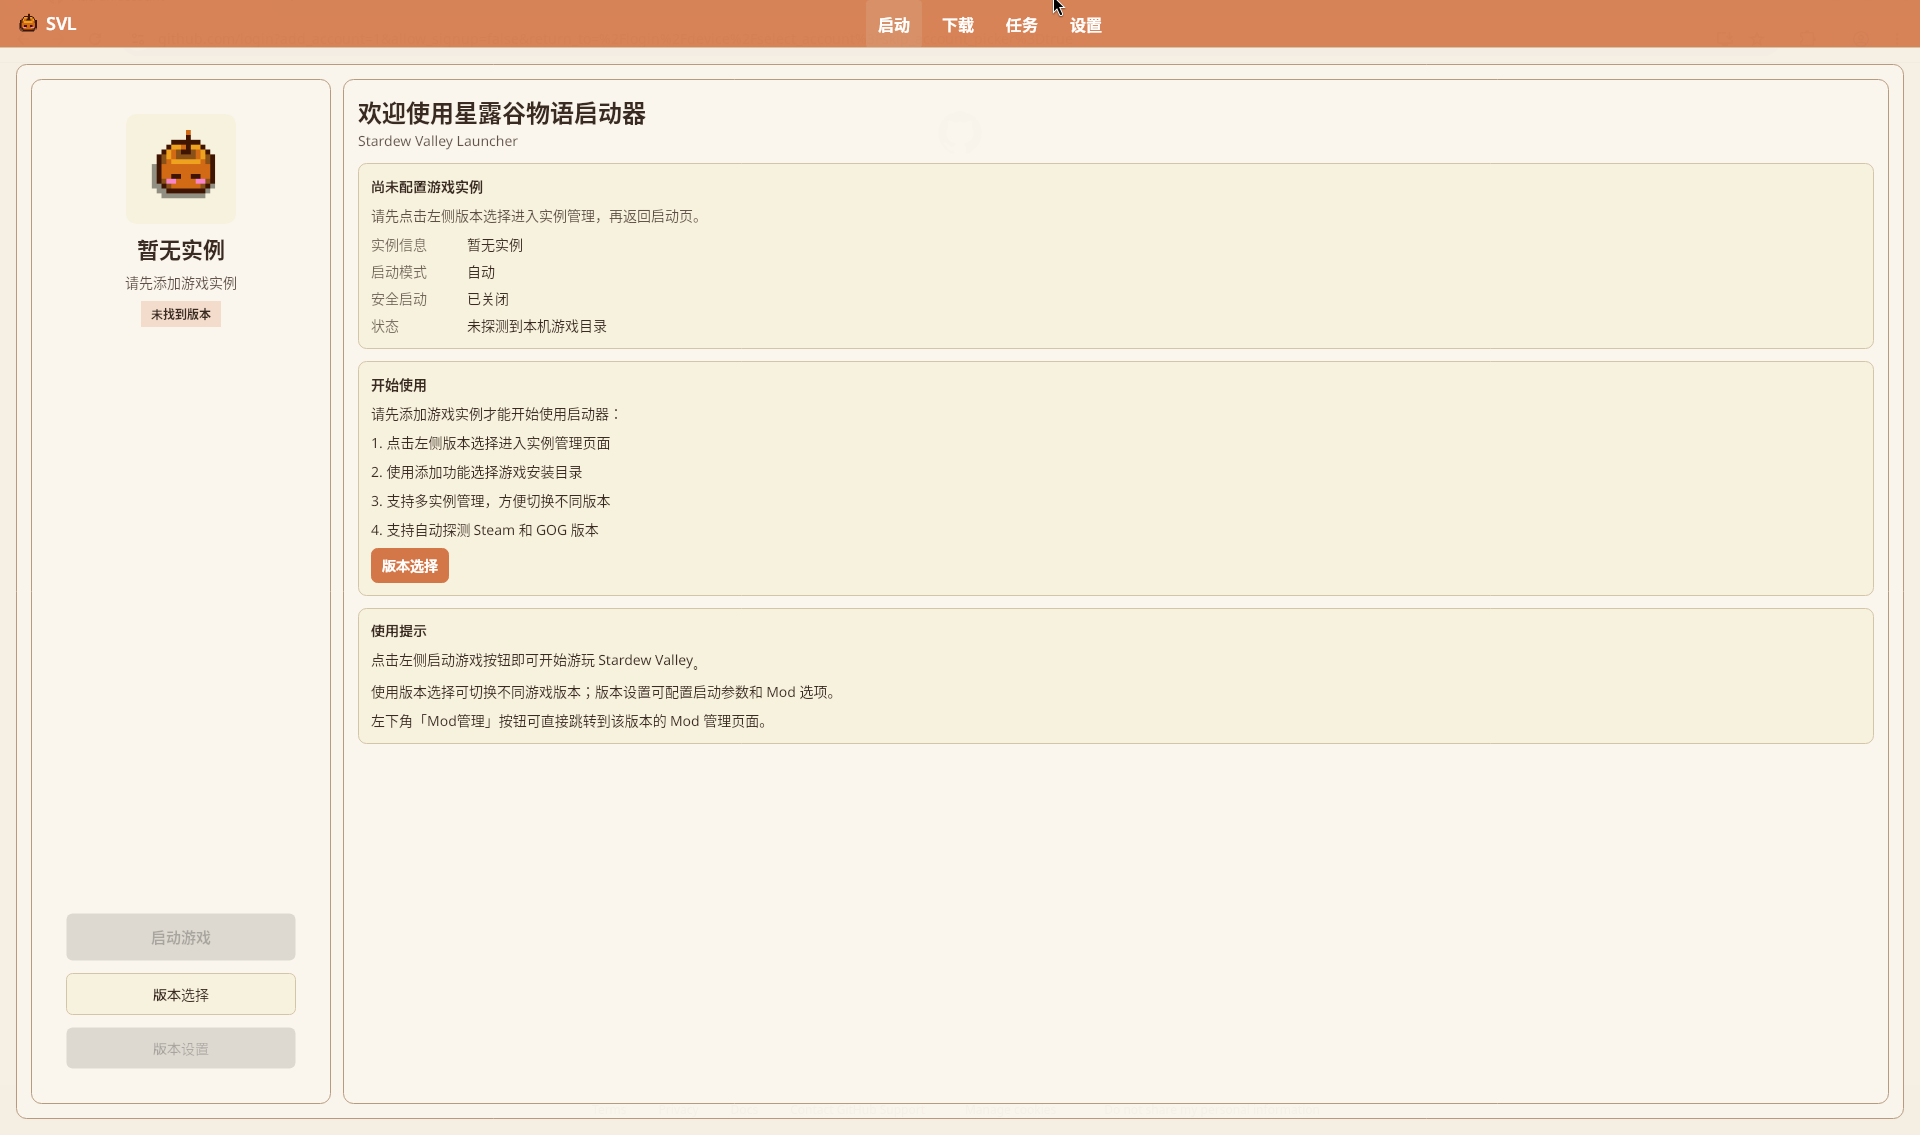
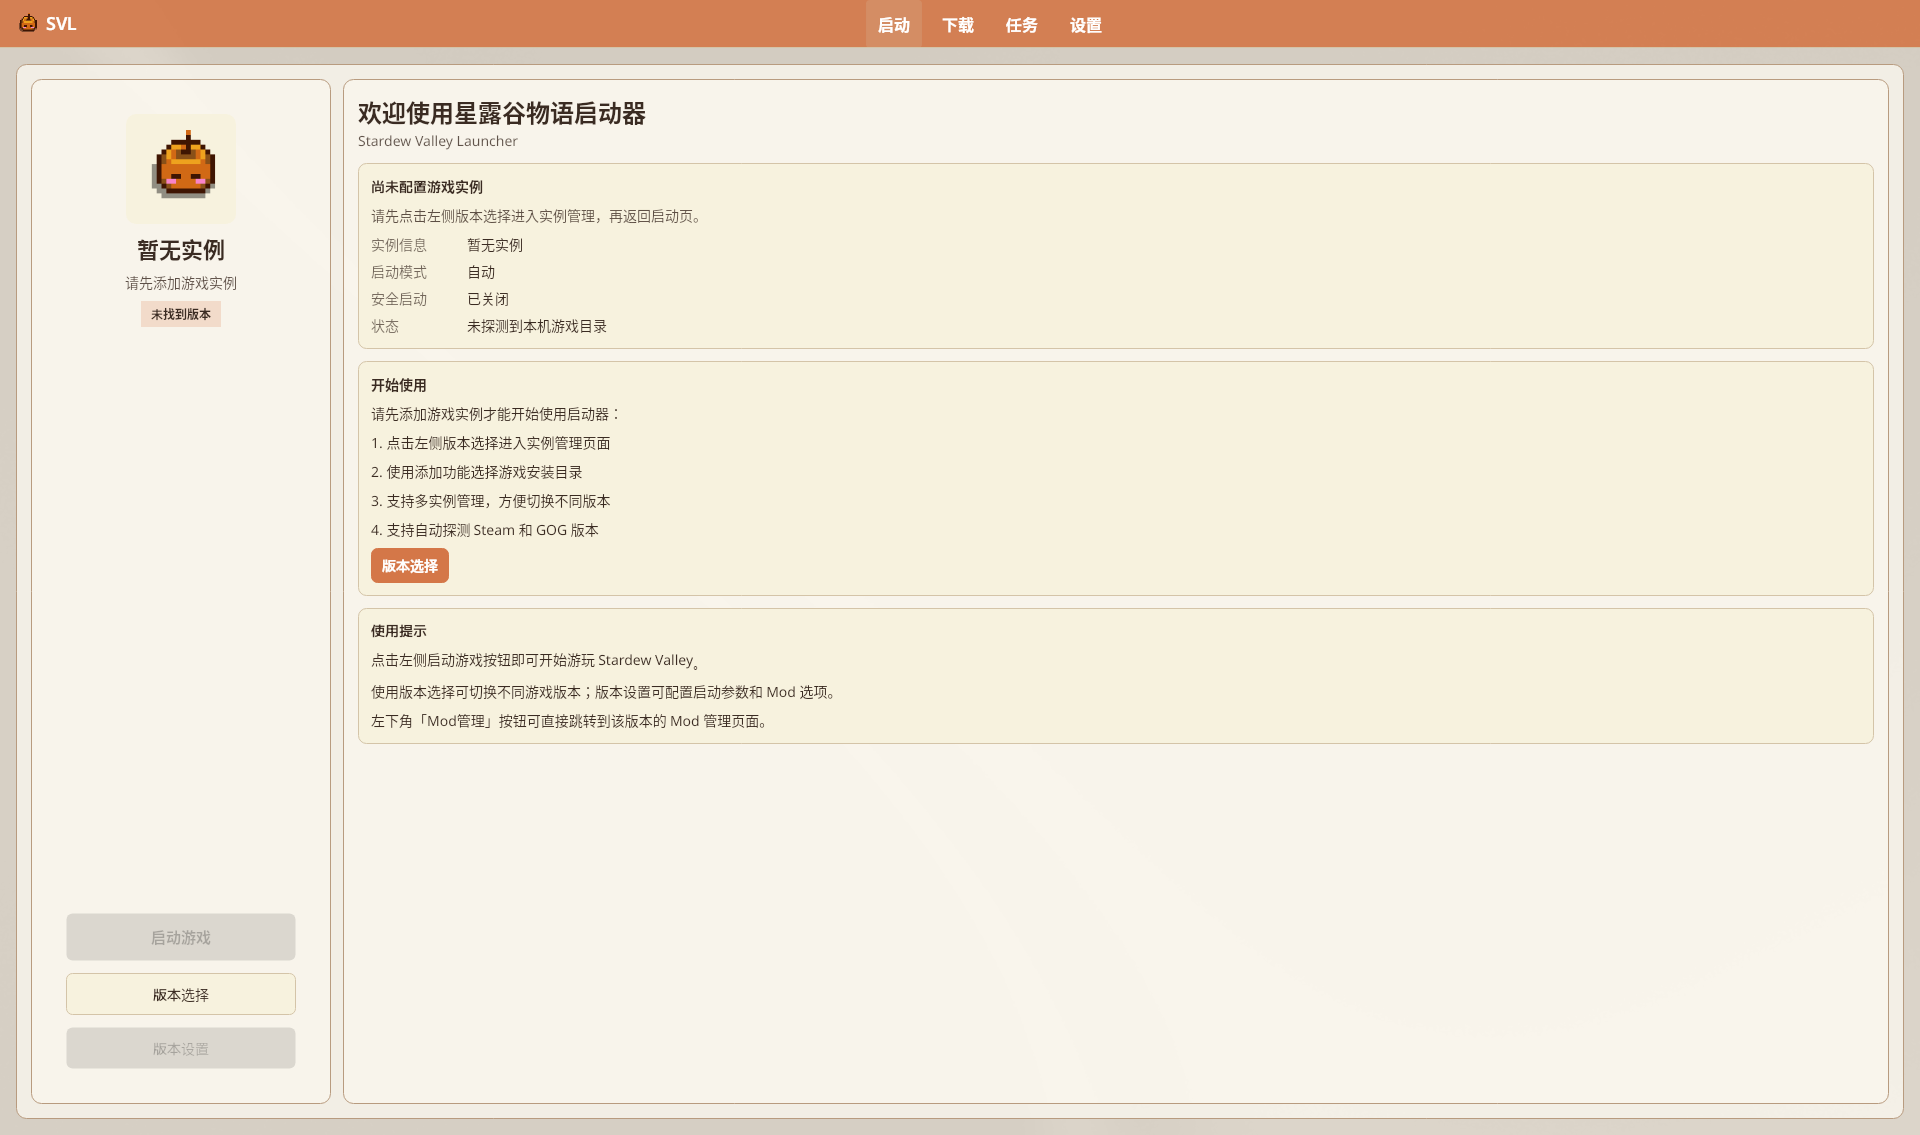
docs: sidebar, archive old Getting-Started, Avalonia screenshots
Add Installing-Mods to _Sidebar; move Getting-Started-Old to
docs/archive with note; wire mods/settings/theme shots; mark
Nexus/Modpack/Download/Theming progress on README.

Changed region(s): [[0.0, 0.0308, 1.0, 1.0]]

diff --git a/README.md b/README.md
@@ -41,10 +41,10 @@
 | **功能文档** | | | |
 | ├─[游戏实例管理](./docs/features/Instance-Management) | ![已修订](https://img.shields.io/badge/进度-Avalonia_修订-brightgreen) | ✅ 版本选择 + 版本设置侧栏 | 2026-11-04 |
 | ├─[Mod 管理](./docs/features/Mod-Management) | ![已修订](https://img.shields.io/badge/进度-Avalonia_修订-brightgreen) | ✅ 工具栏/筛选/备份分栏对齐源码 | 2026-11-04 |
-| ├─[NexusMods 集成](./docs/features/NexusMods-Integration) | ![50%](https://img.shields.io/badge/进度-待修订-yellow) | 📝 编写/校对中 | - |
-| ├─[Modpack 整合包](./docs/features/Modpack-Support) | ![50%](https://img.shields.io/badge/进度-待修订-yellow) | 📝 编写/校对中 | - |
-| ├─[下载管理器](./docs/features/Download-Manager) | ![50%](https://img.shields.io/badge/进度-待修订-yellow) | 📝 编写/校对中 | - |
-| └─[主题与外观](./docs/features/Theming) | ![50%](https://img.shields.io/badge/进度-待修订-yellow) | 📝 编写/校对中 | - |
+| ├─[NexusMods 集成](./docs/features/NexusMods-Integration) | ![已修订](https://img.shields.io/badge/进度-Avalonia_修订-brightgreen) | ✅ 登录改下载设置；NXM/任务页 | 2026-11-04 |
+| ├─[Modpack 整合包](./docs/features/Modpack-Support) | ![已修订](https://img.shields.io/badge/进度-Avalonia_修订-brightgreen) | ✅ 导入/导出；不含本体 | 2026-11-04 |
+| ├─[下载管理器](./docs/features/Download-Manager) | ![已修订](https://img.shields.io/badge/进度-Avalonia_修订-brightgreen) | ✅ 导航「任务」为主入口 | 2026-11-04 |
+| └─[主题与外观](./docs/features/Theming) | ![已修订](https://img.shields.io/badge/进度-Avalonia_修订-brightgreen) | ✅ 个性化页对齐 ThemeService | 2026-11-04 |
 | **高级功能** | | | |
 | ├─[版本隔离](./docs/features/Version-Isolation) | ![已修订](https://img.shields.io/badge/进度-Avalonia_修订-brightgreen) | ✅ 存档共享；1.1.8.2 无开关 | 2026-11-04 |
 | ├─[SMAPI 管理](./docs/features/SMAPI-Management) | ![已修订](https://img.shields.io/badge/进度-Avalonia_修订-brightgreen) | ✅ 下载/拖放/自动安装对齐 | 2026-11-04 |

diff --git a/docs/archive/Getting-Started-Old.md b/docs/archive/Getting-Started-Old.md
@@ -1,3 +1,8 @@
+> **归档说明（2026-11-04）**
+> 本页为 WPF / 旧初次使用稿，已不再链入 SUMMARY / 侧栏。
+> 请改看 [初次使用](../tutorials/Getting-Started.md)。
+> 内容可能含过时菜单名与 Windows 限定表述，仅供对照。
+
 # 初次使用
 
 本指南帮助你快速上手 SVL 启动器。

diff --git a/docs/features/NexusMods-Integration.md b/docs/features/NexusMods-Integration.md
@@ -4,7 +4,7 @@
 
 源码：`SettingsPageView.axaml`（下载设置）、`DownloadPageView` / Mod 搜索相关页、`OpenNexusLoginCommand`。
 
-![设置页（Linux · v1.2.0.0）](../tutorials/image/avalonia/svl-settings.png)
+![设置页（Linux · v1.2.0.0）](../tutorials/image/avalonia/settings.png)
 
 ## 目录
 

diff --git a/docs/features/Theming.md b/docs/features/Theming.md
@@ -4,7 +4,7 @@
 
 源码：`SettingsPageView.axaml` 个性化卡片、`ThemeService`、`AppUserSettings`。
 
-![设置页（Linux · v1.2.0.0）](../tutorials/image/avalonia/svl-settings.png)
+![个性化（Linux · v1.2.0.0）](../tutorials/image/avalonia/theme.png)
 
 ## 目录
 

diff --git a/docs/features/Mod-Management.md b/docs/features/Mod-Management.md
@@ -17,6 +17,9 @@
 
 ## 打开入口
 
+![Mod 管理（Linux · v1.2.0.0）](../tutorials/image/avalonia/mods.png)
+
+
 1. **版本选择** → 实例齿轮；或启动页 **「Mod管理」** / **「版本设置」**。
 2. 左侧点 **「Mod 管理」**。
 

diff --git a/_Sidebar.md b/_Sidebar.md
@@ -7,6 +7,7 @@
 - [安装指南](./docs/tutorials/Installation)
 - [初次使用](./docs/tutorials/Getting-Started)
 - [创建实例](./docs/tutorials/Creating-Instance)
+- [安装 Mods](./docs/tutorials/Installing-Mods)
 
 ## 📦 功能文档
 
